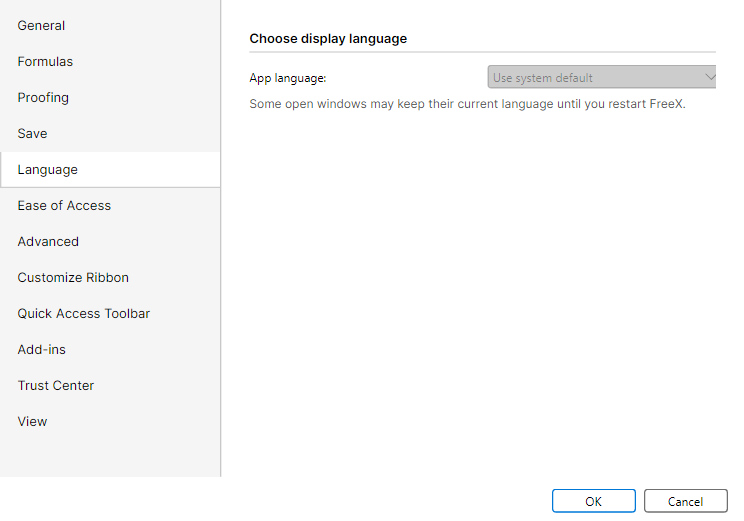
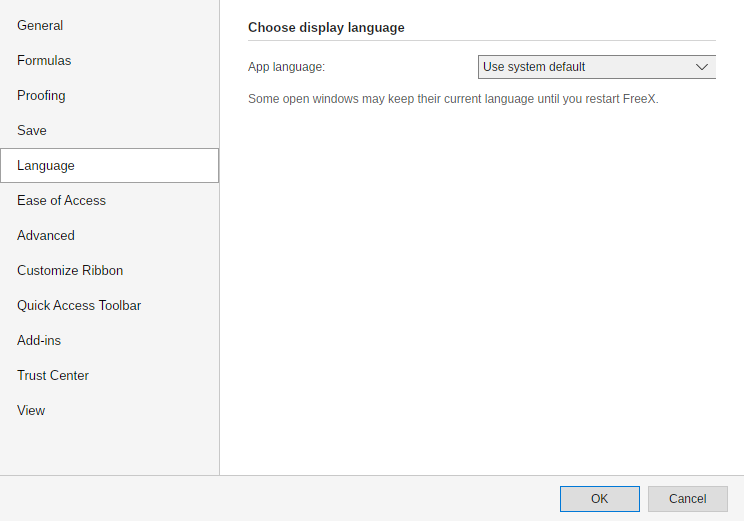
FreeX: align Options Language parity

diff --git a/src/FreeX.App.Avalonia/MainWindow.Options.cs b/src/FreeX.App.Avalonia/MainWindow.Options.cs
@@ -9,6 +9,7 @@ using Avalonia.Media;
 using Avalonia.Platform.Storage;
 
 using Free.Shared.Shell.Avalonia;
+using FreeX.App.Localization;
 using FreeX.App.Services;
 using FreeX.App.Services.Ribbon;
 using FreeX.Core.Commands;
@@ -76,6 +77,7 @@ public sealed partial class MainWindow
             Height = optionsDialogHeight,
             MinWidth = optionsDialogWidth,
             MinHeight = optionsDialogHeight,
+            SizeToContent = SizeToContent.Manual,
             WindowStartupLocation = WindowStartupLocation.CenterOwner,
             ShowInTaskbar = false,
             CanResize = false,
@@ -450,14 +452,38 @@ public sealed partial class MainWindow
 
         savePanel.Spacing = 0;
 
+        var languageOptions = AppLanguageCatalog.GetAvailableLanguages().ToList();
+        var normalizedLanguage = AppLanguageCatalog.NormalizeCultureName(current.AppLanguage);
+        var languageBox = new ComboBox
+        {
+            ItemsSource = languageOptions.Select(option => option.DisplayName).ToList(),
+            SelectedIndex = Math.Max(
+                0,
+                languageOptions.FindIndex(option =>
+                    string.Equals(option.CultureName, normalizedLanguage, StringComparison.OrdinalIgnoreCase))),
+            Width = OptionsDialogPlanner.LanguageFieldWidth,
+        };
+        ApplyOptionsComboBoxChrome(languageBox);
+        AutomationProperties.SetAutomationId(languageBox, "OptionsAppLanguageComboBox");
+        AutomationProperties.SetName(languageBox, OptionsText("Options_AppLanguage"));
+        AutomationProperties.SetHelpText(languageBox, OptionsText("Options_AppLanguageHelpText"));
+
         var languagePanel = OptionsCategoryPanel(
-            OptionsSectionHeader(OptionsText("Options_ChooseDisplayLanguage")),
-            OptionsLabeled(OptionsText("Options_AppLanguage"), OptionsComboBox(
-                new[] { UiText.Get("Options_AppLanguageSystemDefault"), UiText.Get("Options_AppLanguageEnglishUnitedStates") },
-                selectedIndex: 0,
-                isEnabled: false,
-                minWidth: 240)),
-            OptionsDescription(OptionsText("Options_AppLanguageRestartNotice")));
+            OptionsSectionHeader(
+                OptionsText("Options_ChooseDisplayLanguage"),
+                topMargin: OptionsDialogPlanner.LanguageSectionTopMargin,
+                bottomMargin: OptionsDialogPlanner.LanguageSectionBottomMargin),
+            OptionsLabeled(
+                OptionsText("Options_AppLanguage"),
+                languageBox,
+                labelWidth: OptionsDialogPlanner.GeneralLabelWidth,
+                fieldWidth: OptionsDialogPlanner.LanguageFieldWidth,
+                spacing: OptionsDialogPlanner.GeneralFieldSpacing,
+                margin: new Thickness(0, 0, 0, OptionsDialogPlanner.LanguageFieldBottomMargin)),
+            OptionsDescription(
+                OptionsText("Options_AppLanguageRestartNotice"),
+                topMargin: OptionsDialogPlanner.LanguageDescriptionTopMargin));
+        languagePanel.Spacing = 0;
 
         var easePanel = OptionsCategoryPanel(
             OptionsSectionHeader(OptionsText("Options_EaseOfAccessOptions")),
@@ -1088,7 +1114,10 @@ public sealed partial class MainWindow
                          2 => AppOptionsObjectDisplay.Nothing,
                          _ => AppOptionsObjectDisplay.All,
                      },
-                    collapseRibbonAutomatically: collapseRibbonBox.IsChecked == true))
+                     collapseRibbonAutomatically: collapseRibbonBox.IsChecked == true,
+                     appLanguage: languageOptions.Count > 0 && languageBox.SelectedIndex >= 0 && languageBox.SelectedIndex < languageOptions.Count
+                         ? AppLanguageCatalog.NormalizeCultureName(languageOptions[languageBox.SelectedIndex].CultureName)
+                         : current.AppLanguage))
             {
                 warningText.Text = inputError == OptionsDialogPlanner.OptionsInputError.InvalidFontSize
                     ? UiText.Get("Options_InvalidFontSizeMessage")
@@ -1440,13 +1469,13 @@ public sealed partial class MainWindow
             },
         };
 
-    private static TextBlock OptionsDescription(string text, double leftMargin = 0, double bottomMargin = 4) =>
+    private static TextBlock OptionsDescription(string text, double leftMargin = 0, double topMargin = 0, double bottomMargin = 4) =>
         new()
         {
             Text = text,
             FontSize = 12,
             Foreground = Brush(85, 85, 85),
-            Margin = new Thickness(leftMargin, 0, 0, bottomMargin),
+            Margin = new Thickness(leftMargin, topMargin, 0, bottomMargin),
             TextWrapping = TextWrapping.Wrap,
         };
 

diff --git a/src/FreeX.App.Services/OptionsDialogPlanner.cs b/src/FreeX.App.Services/OptionsDialogPlanner.cs
@@ -60,6 +60,11 @@ public static class OptionsDialogPlanner
     public const double GeneralCheckBoxHeight = 18;
     public const double GeneralFieldBottomMargin = 9;
     public const double GeneralUserNameBottomMargin = 6;
+    public const double LanguageFieldWidth = 240;
+    public const double LanguageSectionTopMargin = 0;
+    public const double LanguageSectionBottomMargin = 14;
+    public const double LanguageFieldBottomMargin = 9;
+    public const double LanguageDescriptionTopMargin = 4;
     public const double ProofingContentWidth = CaptureWidth - CategoryColumnWidth - (ContentPaddingHorizontal * 2);
     public const double ProofingWordsListHeight = 108;
     public const double ProofingAddWordLabelWidth = 94;
@@ -108,7 +113,8 @@ public static class OptionsDialogPlanner
         bool MoveSelectionAfterEnter,
         AppOptionsEnterDirection AfterEnterDirection,
         AppOptionsObjectDisplay? ObjectsDisplay = null,
-        bool? CollapseRibbonAutomatically = null);
+        bool? CollapseRibbonAutomatically = null,
+        string? AppLanguage = null);
 
     /// <summary>Font names offered in the Options dialog's default-font picker (parity with the WPF host).</summary>
     public static IReadOnlyList<string> FontNames { get; } =
@@ -170,7 +176,8 @@ public static class OptionsDialogPlanner
         out OptionsDialogInput input,
         out OptionsInputError error,
         AppOptionsObjectDisplay? objectsDisplay = null,
-        bool? collapseRibbonAutomatically = null)
+        bool? collapseRibbonAutomatically = null,
+        string? appLanguage = null)
     {
         input = null!;
 
@@ -205,7 +212,8 @@ public static class OptionsDialogPlanner
             moveSelectionAfterEnter,
             afterEnterDirection,
             objectsDisplay,
-            collapseRibbonAutomatically);
+            collapseRibbonAutomatically,
+            appLanguage);
         return true;
     }
 
@@ -244,7 +252,7 @@ public static class OptionsDialogPlanner
 
             // Remaining values are carried over because this dialog does not surface them.
             CollapseRibbonAutomatically = input.CollapseRibbonAutomatically ?? existing.CollapseRibbonAutomatically,
-            AppLanguage = existing.AppLanguage,
+            AppLanguage = input.AppLanguage ?? existing.AppLanguage,
             SpellCheckCustomDictionaryWords = existing.SpellCheckCustomDictionaryWords,
             FormulaBarExpanded = existing.FormulaBarExpanded,
             StatusBarShowCellMode = existing.StatusBarShowCellMode,

diff --git a/tests/FreeX.App.Avalonia.Tests/OptionsDialogGeneralParitySourceTests.cs b/tests/FreeX.App.Avalonia.Tests/OptionsDialogGeneralParitySourceTests.cs
@@ -47,6 +47,27 @@ public sealed class OptionsDialogGeneralParitySourceTests
         wpf.Should().Contain("x:Name=\"OptRecentFilesPath\"");
     }
 
+    [Fact]
+    public void LanguageOptions_UsesSharedCatalogAndWpfFieldGeometry()
+    {
+        var source = File.ReadAllText(RepoFile("src", "FreeX.App.Avalonia", "MainWindow.Options.cs"));
+        var wpf = File.ReadAllText(RepoFile("src", "FreeX.App.Host", "OptionsDialog.xaml"));
+
+        source.Should().Contain("AppLanguageCatalog.GetAvailableLanguages()");
+        source.Should().Contain("AppLanguageCatalog.NormalizeCultureName(current.AppLanguage)");
+        source.Should().Contain("OptionsAppLanguageComboBox");
+        source.Should().Contain("spacing: OptionsDialogPlanner.GeneralFieldSpacing");
+        source.Should().Contain("SizeToContent = SizeToContent.Manual");
+        source.Should().Contain("languagePanel.Spacing = 0;");
+        source.Should().Contain("appLanguage:");
+        source.Should().NotContain("isEnabled: false,\n                minWidth: 240");
+
+        wpf.Should().Contain("x:Name=\"PanelLanguage\"");
+        wpf.Should().Contain("<ColumnDefinition Width=\"230\"/>");
+        wpf.Should().Contain("<ColumnDefinition Width=\"240\"/>");
+        wpf.Should().Contain("Height=\"24\" VerticalAlignment=\"Center\"");
+    }
+
     private static string RepoFile(params string[] parts)
     {
         var directory = new DirectoryInfo(AppContext.BaseDirectory);

diff --git a/tests/FreeX.App.Services.Tests/OptionsDialogPlannerTests.cs b/tests/FreeX.App.Services.Tests/OptionsDialogPlannerTests.cs
@@ -190,6 +190,22 @@ public sealed class OptionsDialogPlannerTests
     }
 
     [Fact]
+    public void Project_UsesExplicitAppLanguageWhenLanguagePageSuppliesOne()
+    {
+        OptionsDialogPlanner.TryBuildInput(
+            "Calibri", "12", "2", "Tester",
+            autoCalculate: true, useR1C1ReferenceStyle: false, errorCheckingEnabled: true,
+            proofingIgnoreUppercase: true, proofingIgnoreNumbers: false,
+            showFormulaBar: true, showGridlines: true, showHeadings: true,
+            defaultFormat: ".xlsx", showScreenTips: true,
+            moveSelectionAfterEnter: true, afterEnterDirection: AppOptionsEnterDirection.Down,
+            out var input, out _, appLanguage: "en-US").Should().BeTrue();
+
+        OptionsDialogPlanner.Project(new AppOptions { AppLanguage = "*" }, input)
+            .AppLanguage.Should().Be("en-US");
+    }
+
+    [Fact]
     public void Project_CarriesOverUnmanagedFields()
     {
         var existing = new AppOptions

diff --git a/src/FreeX.App.Host/ParityCapture.cs b/src/FreeX.App.Host/ParityCapture.cs
@@ -581,7 +581,8 @@ internal static class ParityCapture
             {
                 CaptureConsolidateDialogDirect(results, outDir, sheet.Id, ResolveSheetId(workbook));
             }
-            else if (string.Equals(targetSurfaceId, "dialog.Options.Save", StringComparison.Ordinal))
+            else if (string.Equals(targetSurfaceId, "dialog.Options.Save", StringComparison.Ordinal) ||
+                string.Equals(targetSurfaceId, "dialog.Options.Language", StringComparison.Ordinal))
             {
                 CaptureDialogTabs(results, "dialog.Options", outDir,
                     () => new OptionsDialog(FreeXOptions.Load()),

diff --git a/tests/FreeX.App.Host.Tests/OptionsDialogSourceTests.cs b/tests/FreeX.App.Host.Tests/OptionsDialogSourceTests.cs
@@ -61,6 +61,15 @@ public sealed partial class OptionsDialogSourceTests
     }
 
     [Fact]
+    public void ParityCapture_TargetsOptionsLanguageForFocusedEvidence()
+    {
+        var source = DialogSourceTestSupport.ReadHostSources("ParityCapture.cs");
+
+        source.Should().Contain("string.Equals(targetSurfaceId, \"dialog.Options.Language\", StringComparison.Ordinal)");
+        source.Should().Contain("captureOnlySurfaceId: targetSurfaceId");
+    }
+
+    [Fact]
     public void ParityCapture_OptionsAdvancedRendersActionFooterInsideCanonicalClientFrame()
     {
         StaTestRunner.Run(() =>

diff --git a/docs/parity/dialog-visual-evidence-summary.md b/docs/parity/dialog-visual-evidence-summary.md
@@ -62,7 +62,6 @@ Outliers are ranked by a deterministic triage score: normalized 32x32 ARGB sampl
 
 | Surface id | WPF logical size | Avalonia logical size | Raw PNG sizes | Bucket | Evidence flag | Score | Sample delta | Luma delta | Non-bg delta |
 | --- | ---: | ---: | --- | --- | --- | ---: | ---: | ---: | ---: |
-| dialog.Options.Language | 744x521 | 744x521 | 744x521 px @ 96 DPI vs 744x521 px @ 96 DPI |  |  | 0.104 | 0.019 | 0.004 | 0.080 |
 | dialog.ScenarioManager | 360x420 | 360x420 | 540x630 px @ 144 DPI vs 360x420 px @ 96 DPI |  |  | 0.104 | 0.053 | 0.006 | 0.044 |
 | dialog.ErrorChecking | 720x420 | 720x420 | 1080x630 px @ 144 DPI vs 720x420 px @ 96 DPI |  |  | 0.103 | 0.030 | 0.006 | 0.066 |
 | dialog.Options.TrustCenter | 744x521 | 744x521 | 744x521 px @ 96 DPI vs 744x521 px @ 96 DPI |  |  | 0.101 | 0.025 | 0.005 | 0.071 |
@@ -72,6 +71,7 @@ Outliers are ranked by a deterministic triage score: normalized 32x32 ARGB sampl
 | dialog.Options.View | 744x521 | 744x521 | 744x521 px @ 96 DPI vs 744x521 px @ 96 DPI |  |  | 0.099 | 0.016 | 0.006 | 0.076 |
 | dialog.Options.EaseOfAccess | 744x521 | 744x521 | 744x521 px @ 96 DPI vs 744x521 px @ 96 DPI |  |  | 0.098 | 0.015 | 0.008 | 0.075 |
 | dialog.Options.AddIns | 744x521 | 744x521 | 744x521 px @ 96 DPI vs 744x521 px @ 96 DPI |  |  | 0.097 | 0.015 | 0.006 | 0.076 |
+| dialog.FindReplace | 720x430 | 720x430 | 720x430 px @ 96 DPI vs 720x430 px @ 96 DPI |  |  | 0.095 | 0.015 | 0.005 | 0.075 |
 
 ## Scale-Aware Dimension Mismatch Details
 
@@ -135,7 +135,7 @@ These rows have a DPI-normalized checked-in PNG size that disagrees with the dia
 | dialog.Options.EaseOfAccess | dialog.Options.EaseOfAccess.png | 744x521 | 744x521 px @ 96 DPI | True | dialog.Options.EaseOfAccess.png | 744x521 | 744x521 px @ 96 DPI | True | True | 0.098 |
 | dialog.Options.Formulas | dialog.Options.Formulas.png | 744x777 | 744x777 px @ 96 DPI | True | dialog.Options.Formulas.png | 744x777 | 744x777 px @ 96 DPI | True | True | 0.093 |
 | dialog.Options.General | dialog.Options.General.png | 744x521 | 744x521 px @ 96 DPI | True | dialog.Options.General.png | 744x521 | 744x521 px @ 96 DPI | True | True | 0.032 |
-| dialog.Options.Language | dialog.Options.Language.png | 744x521 | 744x521 px @ 96 DPI | True | dialog.Options.Language.png | 744x521 | 744x521 px @ 96 DPI | True | True | 0.104 |
+| dialog.Options.Language | dialog.Options.Language.png | 744x521 | 744x521 px @ 96 DPI | True | dialog.Options.Language.png | 744x521 | 744x521 px @ 96 DPI | True | True | 0.021 |
 | dialog.Options.Proofing | dialog.Options.Proofing.png | 744.301x521 | 744x521 px @ 96 DPI | True | dialog.Options.Proofing.png | 744x521 | 744x521 px @ 96 DPI | True | True | 0.042 |
 | dialog.Options.QuickAccessToolbar | dialog.Options.QuickAccessToolbar.png | 744.301x521 | 744x521 px @ 96 DPI | True | dialog.Options.QuickAccessToolbar.png | 744x521 | 744x521 px @ 96 DPI | True | True | 0.047 |
 | dialog.Options.Save | dialog.Options.Save.png | 744x521 | 744x521 px @ 96 DPI | True | dialog.Options.Save.png | 744x521 | 744x521 px @ 96 DPI | True | True | 0.022 |

diff --git a/docs/parity/freex-options-language-wave27-20260727.md b/docs/parity/freex-options-language-wave27-20260727.md
@@ -1,0 +1,49 @@
+# FreeX Options Language Wave 27
+
+Date: 2026-07-27
+
+This slice is limited to `dialog.Options.Language` and uses current-source WPF
+and Avalonia captures at the shared `744x521` logical client frame.
+
+## Diagnosis and fix
+
+Avalonia previously rendered a disabled two-item placeholder combo and used the
+generic Options panel spacing. WPF renders an enabled selector populated from
+the shared `AppLanguageCatalog`, with a 230 px label column and 240 px field.
+
+The bounded fix:
+
+- wires Avalonia to the shared language catalog and normalized persisted culture;
+- carries the selected culture through `OptionsDialogPlanner` into `AppOptions`;
+- aligns the Language header, field width, zero-gap label row, and description
+  margins to the WPF metrics;
+- forces the fixed Options window to manual sizing so the catalog does not make
+  the headless Language capture grow to `744x777`.
+
+## Evidence
+
+| Measure | Before | After |
+| --- | ---: | ---: |
+| Generated triage score | 0.103708 | 0.021 |
+| Direct changed-pixel comparison | historical outlier | 1.63% |
+| WPF logical frame | 744x521 | 744x521 |
+| Avalonia logical frame | 744x521 | 744x521 |
+
+Fresh WPF evidence came from the focused `dialog.Options.Language` parity
+capture. Fresh Avalonia evidence came from the self-contained Linux publish in
+the local `freex-linux-interactive:ubuntu24.04` Docker image under Xvfb.
+
+## Verification
+
+- `OptionsDialogPlannerTests`: 35/35 passed.
+- Avalonia `OptionsDialogGeneralParitySourceTests`: 3/3 passed.
+- WPF `OptionsDialogSourceTests`: 43/43 passed.
+- Dialog visual evidence generator: passed with 94 paired captured surfaces,
+  zero nonblank failures, and zero paired dimension mismatches.
+
+## Residuals
+
+The remaining 0.021 triage score is primarily Avalonia/Linux text
+rasterization, font anti-aliasing, and native combo-box arrow/control chrome.
+The Language page content, selection state, persistence path, and logical frame
+are now aligned; other Options pages are intentionally outside this slice.
